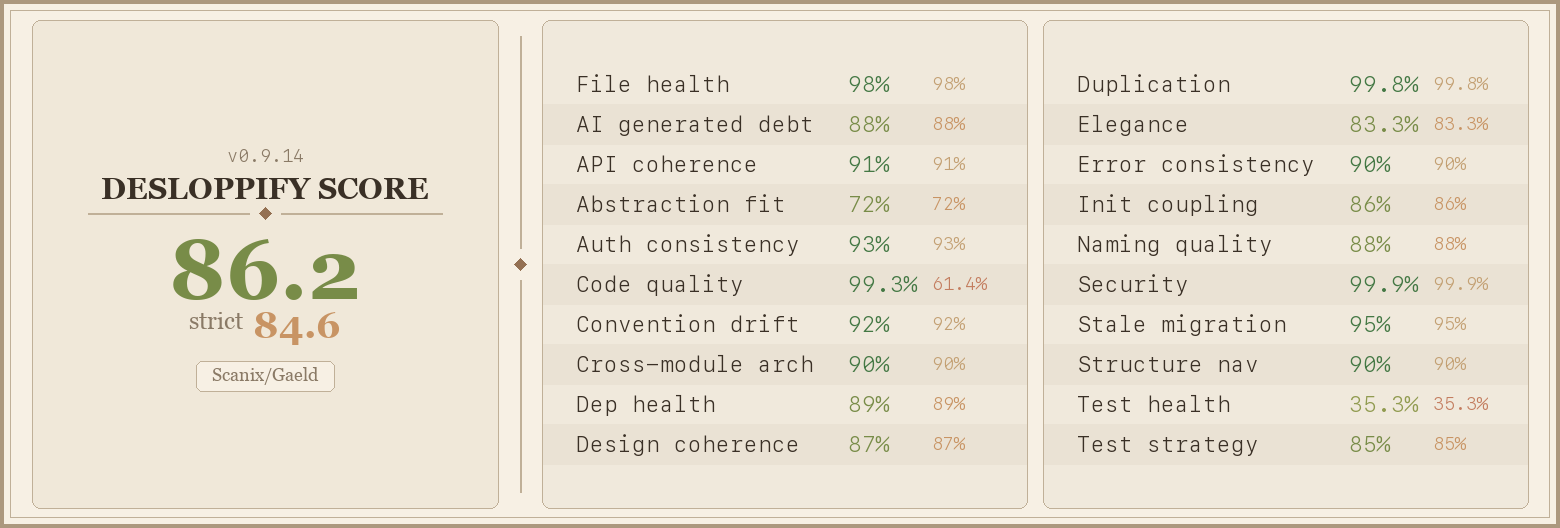
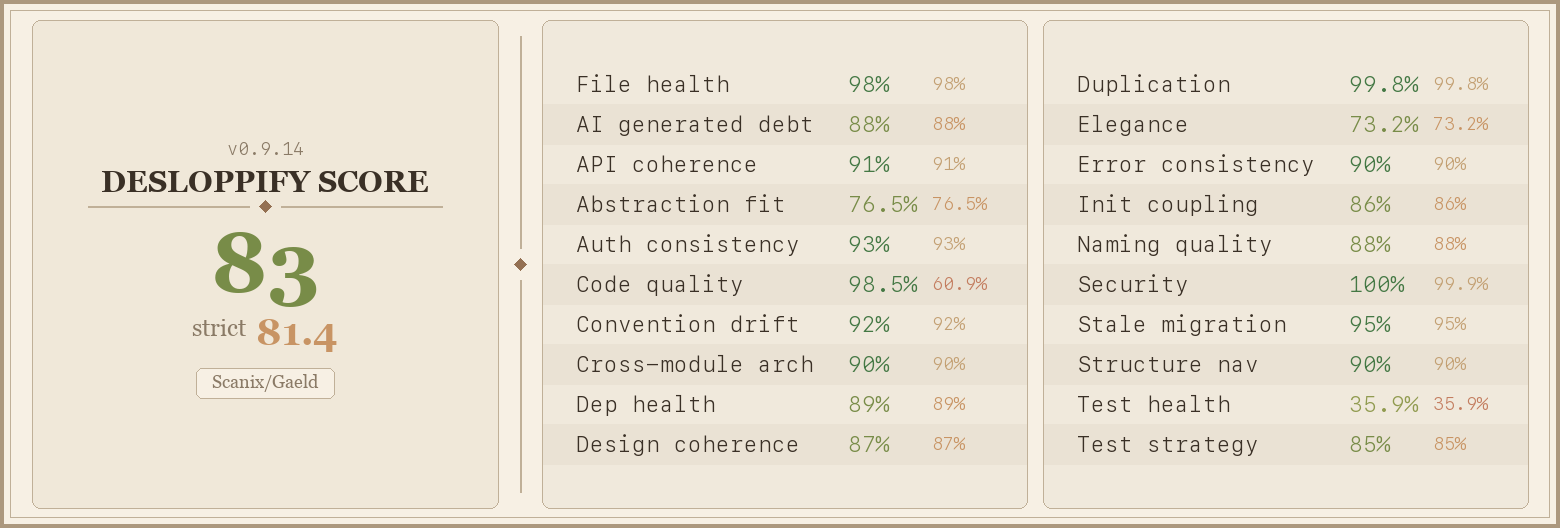
desloppify: exception boundary isolation, Swiss rounding extraction, deprecation cleanup
- Create ExpenseLedgerPostingException to wrap Accounting exceptions
- PostExpenseAction catches DomainException and translates to domain-specific exception
- ExpenseWorkflowController no longer imports any Accounting exception classes
- Extract SwissRounding::adjustment() helper, simplify rounding in both services
- Remove misleading @user from ReconciliationService (actively used)

diff --git a/app/Domains/Invoicing/Services/InvoiceAccountingService.php b/app/Domains/Invoicing/Services/InvoiceAccountingService.php
@@ -115,36 +115,28 @@ class InvoiceAccountingService
                 $originalTotal = $isCreditNote
                     ? Money::absoluteAmount((string) $invoice->total)
                     : (string) $invoice->total;
-                $roundedTotal = SwissRounding::roundToFiveCents($originalTotal);
-                $roundingDiff = SwissRounding::difference($originalTotal, $roundedTotal);
+                $adj = SwissRounding::adjustment($originalTotal);
 
-                if (bccomp($roundingDiff, '0', 2) !== 0) {
+                if ($adj) {
                     $roundingAccount = $this->ledgerQuery->resolveAccount($orgId, AccountCode::ROUNDING_DIFFERENCE);
 
                     // Adjust the AR line to the rounded total
                     $lines[0] = new JournalLineData(
                         accountId: (string) $ar->id,
-                        debit: $isCreditNote ? '0' : $roundedTotal,
-                        credit: $isCreditNote ? $roundedTotal : '0',
+                        debit: $isCreditNote ? '0' : $adj['rounded'],
+                        credit: $isCreditNote ? $adj['rounded'] : '0',
                         description: 'Accounts Receivable',
                     );
 
                     // Post the rounding difference to keep the entry balanced
-                    if (bccomp($roundingDiff, '0', 2) < 0) {
-                        $lines[] = new JournalLineData(
-                            accountId: (string) $roundingAccount->id,
-                            debit: $isCreditNote ? '0' : Money::absoluteAmount($roundingDiff),
-                            credit: $isCreditNote ? Money::absoluteAmount($roundingDiff) : '0',
-                            description: 'Rounding difference (5ct)',
-                        );
-                    } else {
-                        $lines[] = new JournalLineData(
-                            accountId: (string) $roundingAccount->id,
-                            debit: $isCreditNote ? $roundingDiff : '0',
-                            credit: $isCreditNote ? '0' : $roundingDiff,
-                            description: 'Rounding difference (5ct)',
-                        );
-                    }
+                    $absDiff = Money::absoluteAmount($adj['diff']);
+                    $isRoundedDown = bccomp($adj['diff'], '0', 2) < 0;
+                    $lines[] = new JournalLineData(
+                        accountId: (string) $roundingAccount->id,
+                        debit: $isCreditNote ? ($isRoundedDown ? '0' : $adj['diff']) : ($isRoundedDown ? $absDiff : '0'),
+                        credit: $isCreditNote ? ($isRoundedDown ? $absDiff : '0') : ($isRoundedDown ? '0' : $adj['diff']),
+                        description: 'Rounding difference (5ct)',
+                    );
                 }
             }
 

diff --git a/app/Domains/Expenses/Services/ExpenseService.php b/app/Domains/Expenses/Services/ExpenseService.php
@@ -74,35 +74,24 @@ class ExpenseService
 
             // Apply Swiss 5-centime rounding for CHF expenses (regular invoices only)
             if (! $isCreditNote && strtoupper($expense->currency) === 'CHF') {
-                $roundedAmount = SwissRounding::roundToFiveCents($amount);
-                $roundingDiff = SwissRounding::difference($amount, $roundedAmount);
+                $adj = SwissRounding::adjustment($amount);
 
-                if (bccomp($roundingDiff, '0', 2) !== 0) {
+                if ($adj) {
                     $roundingAccount = $this->ledgerQuery->resolveAccount($orgId, AccountCode::ROUNDING_DIFFERENCE);
 
                     // Adjust the bank credit to the rounded amount
                     $lines = [
                         new JournalLineData(accountId: (string) $expenseAccount->id, debit: $amount, credit: '0', description: $expense->description ?? 'Expense'),
-                        new JournalLineData(accountId: (string) $bankAccount->id, debit: '0', credit: $roundedAmount, description: 'Bank withdrawal'),
+                        new JournalLineData(accountId: (string) $bankAccount->id, debit: '0', credit: $adj['rounded'], description: 'Bank withdrawal'),
                     ];
 
-                    if (bccomp($roundingDiff, '0', 2) > 0) {
-                        // Rounded up → debit rounding (more to pay)
-                        $lines[] = new JournalLineData(
-                            accountId: (string) $roundingAccount->id,
-                            debit: $roundingDiff,
-                            credit: '0',
-                            description: 'Rounding difference (5ct)',
-                        );
-                    } else {
-                        // Rounded down → credit rounding (less to pay)
-                        $lines[] = new JournalLineData(
-                            accountId: (string) $roundingAccount->id,
-                            debit: '0',
-                            credit: Money::absoluteAmount($roundingDiff),
-                            description: 'Rounding difference (5ct)',
-                        );
-                    }
+                    $absDiff = Money::absoluteAmount($adj['diff']);
+                    $lines[] = new JournalLineData(
+                        accountId: (string) $roundingAccount->id,
+                        debit: bccomp($adj['diff'], '0', 2) > 0 ? $absDiff : '0',
+                        credit: bccomp($adj['diff'], '0', 2) < 0 ? $absDiff : '0',
+                        description: 'Rounding difference (5ct)',
+                    );
                 }
             }
 

diff --git a/app/Domains/Expenses/Actions/PostExpenseAction.php b/app/Domains/Expenses/Actions/PostExpenseAction.php
@@ -6,9 +6,11 @@ use App\Domains\Accounting\Constants\AccountCode;
 use App\Domains\Expenses\DTOs\RecordExpensePaymentData;
 use App\Domains\Expenses\Enums\ExpenseStatus;
 use App\Domains\Expenses\Enums\ExpenseType;
+use App\Domains\Expenses\Exceptions\ExpenseLedgerPostingException;
 use App\Domains\Expenses\Exceptions\InvalidExpenseStateException;
 use App\Domains\Expenses\Models\Expense;
 use App\Domains\Expenses\Services\ExpenseService;
+use App\Support\Exceptions\DomainException;
 use Illuminate\Support\Facades\Log;
 
 /**
@@ -48,14 +50,18 @@ class PostExpenseAction
 
         $reference = $prefix.$expense->id;
 
-        $this->expenseService->postToLedger($expense, new RecordExpensePaymentData(
-            amount: (string) $expense->amount,
-            paymentDate: $expense->date->toDateString(),
-            reference: $reference,
-            description: $expense->description ?? $expense->category,
-            expenseAccountCode: $expenseAccountCode,
-            bankAccountCode: $bankAccountCode,
-        ), $isCreditNote);
+        try {
+            $this->expenseService->postToLedger($expense, new RecordExpensePaymentData(
+                amount: (string) $expense->amount,
+                paymentDate: $expense->date->toDateString(),
+                reference: $reference,
+                description: $expense->description ?? $expense->category,
+                expenseAccountCode: $expenseAccountCode,
+                bankAccountCode: $bankAccountCode,
+            ), $isCreditNote);
+        } catch (DomainException $e) {
+            throw new ExpenseLedgerPostingException($e->getMessage(), 0, $e);
+        }
 
         Log::info('Expense posted to ledger', [
             'expense_id' => $expense->id,

diff --git a/app/Support/SwissRounding.php b/app/Support/SwissRounding.php
@@ -34,4 +34,23 @@ class SwissRounding
     {
         return bcsub($rounded, $original, 2);
     }
+
+    /**
+     * Check if an amount needs Swiss rounding and return the adjustment.
+     *
+     * Returns null if no rounding is needed, or an array with 'rounded' and 'diff'.
+     *
+     * @return array{rounded: string, diff: string}|null
+     */
+    public static function adjustment(string $amount): ?array
+    {
+        $rounded = self::roundToFiveCents($amount);
+        $diff = self::difference($amount, $rounded);
+
+        if (bccomp($diff, '0', 2) === 0) { // @phpstan-ignore argument.type
+            return null;
+        }
+
+        return ['rounded' => $rounded, 'diff' => $diff];
+    }
 }

diff --git a/app/Domains/Expenses/Controllers/ExpenseWorkflowController.php b/app/Domains/Expenses/Controllers/ExpenseWorkflowController.php
@@ -2,12 +2,9 @@
 
 namespace App\Domains\Expenses\Controllers;
 
-use App\Domains\Accounting\Exceptions\DuplicateReferenceException;
-use App\Domains\Accounting\Exceptions\FiscalYearClosedException;
-use App\Domains\Accounting\Exceptions\InvalidEntryDataException;
-use App\Domains\Accounting\Exceptions\UnbalancedEntryException;
 use App\Domains\Expenses\Actions\ApproveExpenseAction;
 use App\Domains\Expenses\Actions\PostExpenseAction;
+use App\Domains\Expenses\Exceptions\ExpenseLedgerPostingException;
 use App\Domains\Expenses\Exceptions\InvalidExpenseStateException;
 use App\Domains\Expenses\Models\Expense;
 use App\Http\Controllers\Controller;
@@ -44,16 +41,10 @@ class ExpenseWorkflowController extends Controller
 
         try {
             $action->execute($expense, $validated['expense_account_code']);
-        } catch (InvalidExpenseStateException $e) {
+        } catch (InvalidExpenseStateException|ExpenseLedgerPostingException $e) {
             return redirect()->back()->withErrors(['expense_account_code' => $e->getMessage()]);
         } catch (ModelNotFoundException) {
             return redirect()->back()->withErrors(['expense_account_code' => __('app.account_not_found', ['code' => $validated['expense_account_code']])]);
-        } catch (FiscalYearClosedException $e) {
-            return redirect()->back()->withErrors(['expense_account_code' => $e->getMessage()]);
-        } catch (DuplicateReferenceException $e) {
-            return redirect()->back()->withErrors(['expense_account_code' => $e->getMessage()]);
-        } catch (UnbalancedEntryException|InvalidEntryDataException $e) {
-            return redirect()->back()->withErrors(['expense_account_code' => $e->getMessage()]);
         }
 
         return redirect()->route('expenses.show', $expense)

diff --git a/app/Domains/Expenses/Exceptions/ExpenseLedgerPostingException.php b/app/Domains/Expenses/Exceptions/ExpenseLedgerPostingException.php
@@ -1,0 +1,13 @@
+<?php
+
+namespace App\Domains\Expenses\Exceptions;
+
+use App\Support\Exceptions\DomainException;
+
+class ExpenseLedgerPostingException extends DomainException
+{
+    public function __construct(string $message = 'Failed to post expense to ledger.', int $code = 0, ?\Throwable $previous = null)
+    {
+        parent::__construct($message, $code, $previous);
+    }
+}

diff --git a/app/Domains/Banking/Services/ReconciliationService.php b/app/Domains/Banking/Services/ReconciliationService.php
@@ -22,8 +22,6 @@ use Illuminate\Support\Facades\Log;
  *
  * Coordinates InvoiceReconciler, ExpenseReconciler, and ContraAccountReconciler,
  * plus the auto-reconciliation engine (EE only).
- *
- * @deprecated Inject the specific reconciler directly for new code.
  */
 class ReconciliationService
 {